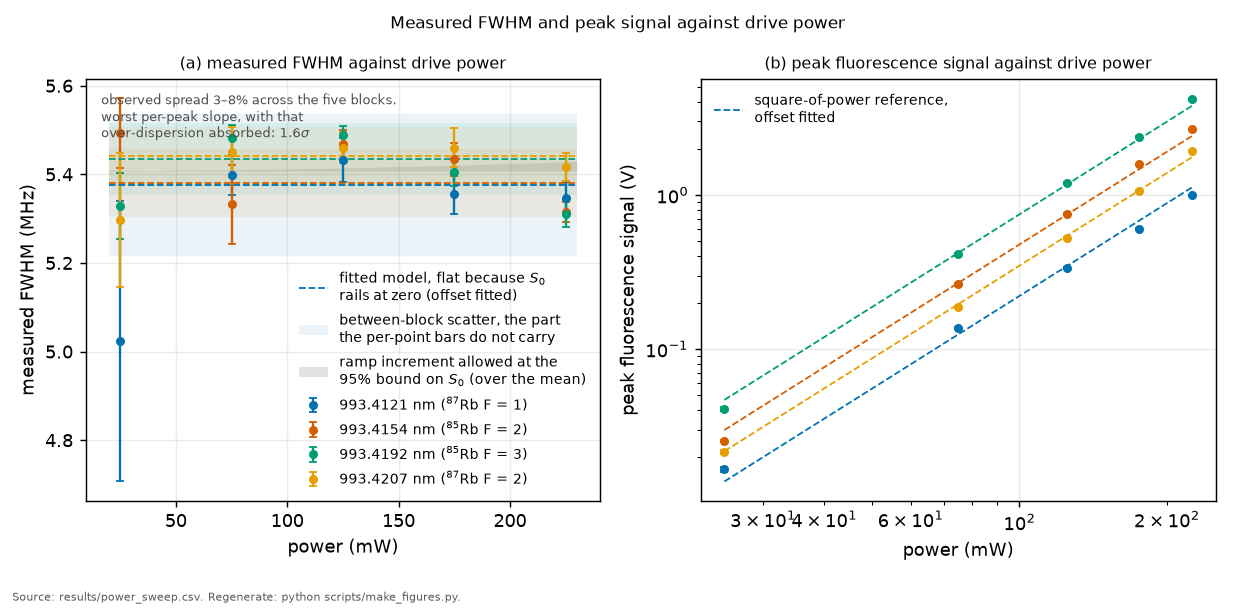
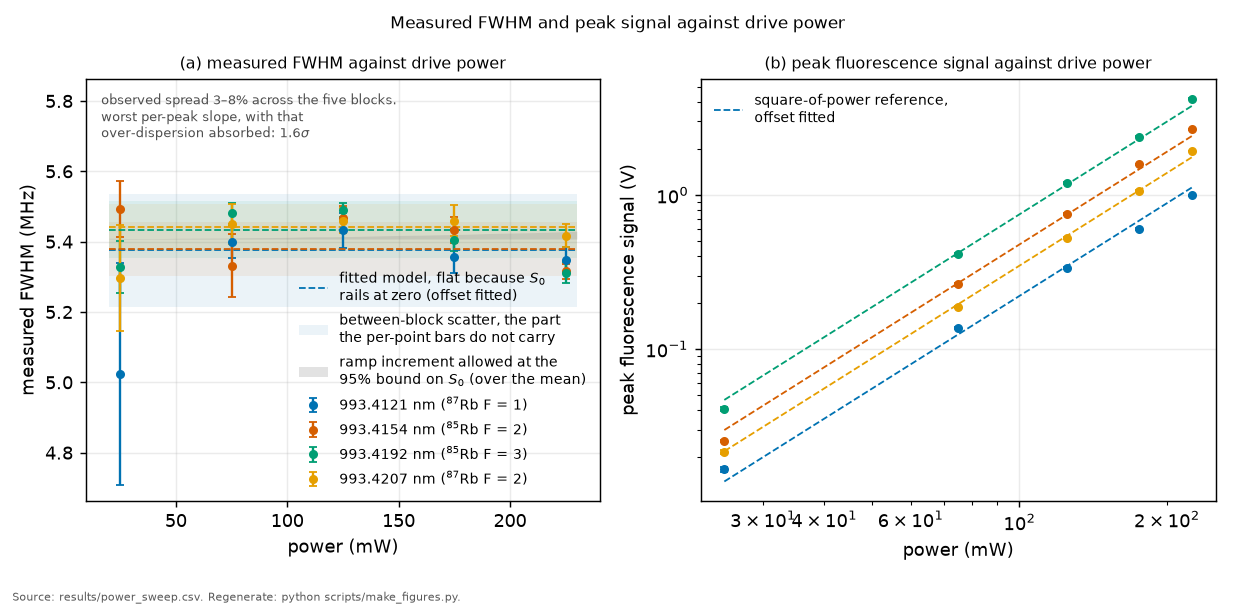
Make the figures say what they draw, starting with an uncertainty that was printed as zero (archive 858d0be1)
All ten files were byte-identical to the archive at baseline, so this is a
clean copy port. The figures themselves are shipped as rendered, including
fig19's pilot point, which this copy cannot redraw because the pilot
quarantine tree stays outside the repository.

diff --git a/scripts/make_figures.py b/scripts/make_figures.py
@@ -589,6 +589,16 @@ def fig_power_sweep():
             "worst per-peak slope, with that\n"
             f"over-dispersion absorbed: {_tworst:.1f}$\\sigma$",
             transform=a1.transAxes, fontsize=7.4, color="0.30", va="top")
+    # HEADROOM FOR THAT TEXT, measured rather than guessed. The block is
+    # anchored at axes-fraction 0.97 with no ylim set, so the axes autoscaled
+    # to the data and the 993.4154 nm error bar at 25 mW (5.4927 +/- 0.0785,
+    # so reaching 5.571) ran straight through the first line of it. Pixel
+    # inspection of the shipped PNG on 2026-08-15 found the whisker occupying
+    # the same pixels as all three lines of the annotation. Three text lines at
+    # 7.4 pt need roughly a fifth of this panel, so the top limit is lifted to
+    # clear them instead of moving the text somewhere the data may grow into.
+    _ylo, _yhi = a1.get_ylim()
+    a1.set_ylim(_ylo, _yhi + 0.26 * (_yhi - _ylo))
     a1.legend(fontsize=8, loc="lower right")
     a1.set_xlabel("power (mW)")
     # Estimator named on the axis: this panel's widths are the raw
@@ -3642,8 +3652,6 @@ def fig_magic_wavelengths():
     scalar-only). The vector term near the 6S-5P lines needs its own
     treatment before any trap design -- see rb5s6s/polarizability.py.
     """
-    import re
-
     from rb5s6s import polarizability as P
 
     rows = _rows("polarizability")
@@ -3655,8 +3663,29 @@ def fig_magic_wavelengths():
     crossings = []
     for r in magic_rows:
         lam = float(r["value"])
-        m = re.search(r"16-84% band ([\d.]+)\.\.([\d.]+) nm", r["unit"])
-        lo, hi = (float(m.group(1)), float(m.group(2))) if m else (lam, lam)
+        # THE BAND COMES FROM ITS OWN COLUMNS. Until 2026-08-15 this parsed it
+        # out of the free-text `unit` field with
+        #     re.search(r"16-84% band ([\d.]+)\.\.([\d.]+) nm", r["unit"])
+        # and fell back to (lam, lam) when that failed. The uncertainty wave had
+        # already moved the band into real err_lo16/err_hi84 columns and left no
+        # such text behind, so the regex matched NOTHING, the fallback fired for
+        # all three crossings, and the panel printed brackets of zero width:
+        # "[1203.89, 1203.89]" where the committed band is 1203.06 to 1204.73.
+        # A silent fallback turned a missing parse into a confident claim of
+        # perfect precision, which is the one thing this figure exists to deny.
+        # There is no fallback now: a magic row without its band is an error.
+        try:
+            lo, hi = float(r["err_lo16"]), float(r["err_hi84"])
+        except (KeyError, TypeError, ValueError) as exc:
+            raise SystemExit(
+                f"fig17: magic_5s6s row {r['key']!r} has no usable 16-84 band "
+                f"in err_lo16/err_hi84 ({exc}). Re-run "
+                f"scripts/run_polarizability.py rather than letting the figure "
+                f"draw a zero-width uncertainty.") from exc
+        if not (lo <= lam <= hi):
+            raise SystemExit(
+                f"fig17: magic_5s6s row {r['key']!r} has a band "
+                f"[{lo}, {hi}] that does not contain its own value {lam}.")
         crossings.append((lam, lo, hi))
     # The three bands differ by more than an order of magnitude in width, so
     # one status word cannot describe all three uncertainties. What each bracket
@@ -3743,6 +3772,14 @@ def fig_magic_wavelengths():
     # branch for the third.
     label_offsets = [(0, 40), (-108, -54), (62, 34)]
     for i, (lam, clo, chi) in enumerate(crossings):
+        # The band is DRAWN, not only printed. figures/README.md and
+        # FUTURE_TRANSITIONS_titsapph.md both told the reader to look for a
+        # shaded 16-84 per cent band and there was none on the canvas, because
+        # the only thing carrying the band was the bracket text, which was
+        # itself degenerate. The widths are genuinely unequal, 1.67 nm at the
+        # 1204 crossing against 0.13 nm at 1340, so the span also shows at a
+        # glance which crossing is actually pinned down.
+        ax_top.axvspan(clo, chi, color="#D55E00", alpha=0.16, lw=0, zorder=0)
         ax_top.axvline(lam, color="#D55E00", ls="--", lw=1.1)
         dx, dy = label_offsets[i] if i < len(label_offsets) else (0, 40)
         ax_top.annotate(

diff --git a/figures/README.md b/figures/README.md
@@ -54,19 +54,19 @@ support instead of a citing passage.
 | `fig2_power_sweep.png` | width and amplitude against drive power, the amplitude following the two-photon square law and the width carrying no significant slope | `make_figures.py` | [methods/07_what_we_found.md](../docs/methods/07_what_we_found.md) |
 | `fig3_transit_mc.png` | the Monte Carlo transit contribution against beam waist, with the waist at which it would account for the observed total | `make_figures.py` | [README.md](../README.md), [PLAN.md](../docs/PLAN.md) |
 | `fig4_amplitude_ratios.png` | within-isotope area ratios against the parameter-free degeneracy law, each prediction marked on its own dashed line. For a scalar two-photon operator the transition strengths scale as the upper-level statistical weight (2F+1), and the two measured ratios are drawn against those two predictions. The bars combine the scatter over repeats with the drift between measurement blocks, which is far larger than the difference the prediction would show, so this dataset cannot test the law | `make_figures.py` | [methods/07_what_we_found.md](../docs/methods/07_what_we_found.md) §5.7, which carries the reading of the figure |
-| `fig5_pooled_width.png` | the four components pooled into one width budget against density, with the shared laser width against temperature beside it | `make_figures.py` | cited nowhere. Supports the self-broadening bound, [RESULTS.md](../docs/RESULTS.md) C1, by showing the pooled trend the individual components are too noisy to carry |
-| `fig6_gamma_floor.png` | the fitted collisional width rising about 1.5-fold while the density rises 52-fold, which is why the coefficient is read as a floor | `make_figures.py` | [README.md](../README.md), [PLAN.md](../docs/PLAN.md) |
+| `fig5_pooled_width.png` | the four components pooled into one width budget against density, with the shared laser width against temperature beside it | `make_figures.py` | cited from [CLAIMS.md](../docs/CLAIMS.md). Supports the self-broadening bound, [RESULTS.md](../docs/RESULTS.md) C1, by showing the pooled trend the individual components are too noisy to carry |
+| `fig6_gamma_floor.png` | the fitted collisional width rising about 1.5-fold while the density rises 53-fold, which is why the coefficient is read as a floor | `make_figures.py` | [README.md](../README.md), [PLAN.md](../docs/PLAN.md) |
 | `fig7_identifiability_profile.png` | the profile-likelihood map of the collisional-width and laser-width degeneracy, the wide topology and a zoom against the local covariance ellipse. The two widths are not separately identifiable at this condition: the likelihood has a long valley along which they trade, so the split is set by the fit model rather than by the data. The condition is 993.4192 nm, cell at 130 °C, 225 mW, and the transit width and every remaining fitted parameter are re-minimised at each point of the grid. The white curves are the joint 68 and 95 percent contours, and beyond the grey dotted line the fitted transit width has reached zero and is held there | `make_figures.py` | [methods/06_the_statistics.md](../docs/methods/06_the_statistics.md). Neither citing document embeds it, so this row is its caption |
 | `fig8_ruler.png` | one EOM ruler trace with its constrained seven-tooth comb fit, and the free-centres nonlinearity map beside it | `make_figures.py` | [methods/05_the_frequency_ruler.md](../docs/methods/05_the_frequency_ruler.md) |
 | `fig9_polarizability_ladder.png` | the polarizability difference against wavelength for the 5S to 6S and 5S to 7S ladders, each drive marked and each crossing labelled | `run_polarizability_ladder.py` | [BIG_PICTURE.md](../docs/BIG_PICTURE.md) |
 | `fig10_degeneracy_vs_observable.png` | the twenty power-sweep conditions as error ellipses over contours of constant total width, and the same conditions' total width against power | `make_figures.py` | [BIG_PICTURE.md](../docs/BIG_PICTURE.md), [RESEARCH_DECISIONS.md](../docs/RESEARCH_DECISIONS.md) |
-| `fig11_laser_history.png` | the campaign's laser frequency within each run of unchanged scope-window setting, with a visible break at every setting change, the one long untouched stretch, and the within-epoch step distribution. No wavemeter log survives, so this is what the traces themselves can and cannot say. Panel (a) draws 296 traces in 60 segments of unchanged oscilloscope window setting, each segment referenced to itself, because across a change of that setting the offset is unknown and the record breaks. Panel (b) is the quietest well-sampled segment, 993.4154 nm, 10 traces over 3.4 min held to 0.17 MHz peak to peak. Panel (c) has half the steps below 0.21 MHz and a separate group running out to 15.5 MHz. The record does not say what produced those, though a re-lock of the reference cavity would look like this | `make_figures.py` | cited from [DATA.md](../docs/DATA.md), which now shows it. Supports the drift limitation in [DATA.md](../docs/DATA.md): an offset means nothing across a setting change, and within one setting the excursion is about 1 MHz. This row is the figure's caption |
+| `fig11_laser_history.png` | the campaign's laser frequency within each run of unchanged scope-window setting, with a visible break at every setting change, the quietest well-sampled segment, and the within-epoch step distribution. No wavemeter log survives, so this is what the traces themselves can and cannot say. Panel (a) draws 296 traces in 60 segments of unchanged oscilloscope window setting, each segment referenced to itself, because across a change of that setting the offset is unknown and the record breaks. Panel (b) is the quietest well-sampled segment, 993.4154 nm, 10 traces over 3.4 min held to 0.17 MHz peak to peak. Panel (c) has half the steps below 0.21 MHz and a separate group running out to 15.5 MHz. The record does not say what produced those, though a re-lock of the reference cavity would look like this | `make_figures.py` | cited from [DATA.md](../docs/DATA.md), which now shows it. Supports the drift limitation in [DATA.md](../docs/DATA.md): an offset means nothing across a setting change, and within one setting the excursion is about 1 MHz. This row is the figure's caption |
 | `fig12_ramp_construction.png` | how the intensity profile of a focused Gaussian beam becomes a triangular light-shift distribution, in four steps, with no data and no fitted parameters | `make_figures.py` | [THEORY_NOTE.md](../docs/THEORY_NOTE.md), [PLAN.md](../docs/PLAN.md) |
 | `fig13_level_scheme.png` | which levels are driven and which arm is detected, in the term-diagram idiom, with the digitised cavity scan in side panels | `make_figures.py` | [methods/01_the_measurement.md](../docs/methods/01_the_measurement.md), [APPARATUS.md](../docs/APPARATUS.md) |
 | `fig14_wavemeter_reconstruction.png` | the 2025-06-11 wavemeter record, the sawtooth model fitted to it, and the resulting floor on unmodelled laser motion | `make_figures.py` | [APPARATUS.md](../docs/APPARATUS.md), [PREREGISTRATION_RESULTS.md](../docs/PREREGISTRATION_RESULTS.md) |
 | `fig15_drift_story.png` | the drift problem photographed, the campaign record reconstructed from its own traces, and what each drift regime licenses | `make_figures.py` | [README.md](../README.md), [PLAN.md](../docs/PLAN.md) |
 | `fig16_fit_gallery.png` | the brightest campaign trace of each component against the committed shared model, with residuals, four panels in one frame | `make_figures.py` | [README.md](../README.md) |
-| `fig17_magic_wavelengths.png` | the 5S and 6S polarizabilities and their difference, with the three zero crossings and each crossing's Monte Carlo band | `make_figures.py` | [README.md](../README.md) |
+| `fig17_magic_wavelengths.png` | the 5S and 6S polarizabilities and their difference, with the three zero crossings and each crossing's 16 to 84 per cent Monte Carlo band, printed as a bracket under the crossing and shaded on the axis. The three bands differ by more than a factor of ten in width, 1.67 nm at 1204 nm against 0.13 nm at 1340, so at this scale the shading is narrower than the crossing line and the bracket is the readable form. Until 2026-08-15 the brackets were drawn zero-width, because the producer parsed the band out of a free-text field the uncertainty wave had already emptied | `make_figures.py` | [README.md](../README.md) |
 | `fig18_single_4121.png` | one full-page panel for the 993.4121 nm component: the same trace and shared model as fig16, with a parameter box naming every number as shared or per-trace. The model is a Lorentzian core, natural plus collisional, convolved with a Gaussian envelope set by the laser line width and the transit time, with the detector's saturation included. The shared block holds at the widths common to the whole campaign, and only this trace's amplitude, centre and background are refit. Reading the box: a shared laser width is shared by every trace taken at this temperature in one session and the shared fit publishes no separate uncertainty for it, the same goes for the shared collisional width, the transit width is held fixed at the value the assumed geometry implies because the beam waist has not been measured, the fitted centre is on this trace's own scan axis whose origin is arbitrary, and where the reduced chi-squared falls below one the per-point noise assumed in the fit is conservative so the uncertainties beneath it are upper bounds | `make_figures.py` | deliberately not embedded. It is a sibling of `fig18_single_4192.png`, which [methods/04_the_composite_model.md](../docs/methods/04_the_composite_model.md) shows for one peak. Showing all four in the chapter would repeat the same statement four times, and a reader checking that the shape holds on the other peaks wants the files rather than the prose. Supports the composite lineshape model of [methods/04_the_composite_model.md](../docs/methods/04_the_composite_model.md), whose shared and per-trace split the parameter box states. This row is the caption for all four panels |
 | `fig18_single_4154.png` | the same panel for the 993.4154 nm component | `make_figures.py` | deliberately not embedded. It is a sibling of `fig18_single_4192.png`, which [methods/04_the_composite_model.md](../docs/methods/04_the_composite_model.md) shows for one peak. Showing all four in the chapter would repeat the same statement four times, and a reader checking that the shape holds on the other peaks wants the files rather than the prose. Supports [methods/04_the_composite_model.md](../docs/methods/04_the_composite_model.md), as above |
 | `fig18_single_4192.png` | the same panel for the 993.4192 nm component | `make_figures.py` | cited from [methods/04_the_composite_model.md](../docs/methods/04_the_composite_model.md), which now shows it. Supports [methods/04_the_composite_model.md](../docs/methods/04_the_composite_model.md), as above |
@@ -80,8 +80,8 @@ support instead of a citing passage.
 | `fig27_radiation_environment.png` | the three radiation fields a hot cell puts on these atoms, on one pair of axes. Panel (a) is the thermal occupation number against wavelength at 130 °C, with every line of the cascade marked on it and the band where the thermal photons actually are shaded: the detected 795 nm line sits twenty decades below that band and the infrared cascade legs twelve, which is the whole reason blackbody light does nothing here. Panel (b) is the consequence, every channel scored against the two-photon drive that makes the signal, over nineteen decades of rate. The one thermal channel that clears the floor is 6S to 6P at 2.7 µm, still two parts per million of the natural decay, and the only error bar in the panel is the trapped-infrared row's, because its standoff is geometric where everything else is atomic | `make_figures.py` | [docs/methods/04_the_composite_model.md](../docs/methods/04_the_composite_model.md) |
 | `fig28_cascade_resolved.png` | why the pumping branching is not the degeneracy weight, and why the correction is nevertheless two numbers. Panel (a) resolves one line's cascade by intermediate F. The level that is fed with 0.17 of that leg and loses none of it, because a J = 1 photon cannot change F by two, so it returns the atom to the level it came from. Panel (b) is the point. Small markers are the individual intermediate levels, which scatter from 0 to 0.67, and large markers are the leg sums, which sit on exactly 8/9 and 4/9 for all four lines and both isotopes. That sum rule is derived as 2(1-p) with p the purely electronic non-flip probability, and checked again as an exact-rational density matrix with every coherence kept | `make_figures.py` | [docs/THEORY_NOTE.md](../docs/THEORY_NOTE.md) |
 | `fig29_isotope_transit.png` | why the two isotopes do not share a transit width, and why the fits share one anyway. Panel (a) is the kernel against temperature for both masses, 12 kHz apart at 140 °C on a width quoted to 0.01 MHz. Panel (b) is the reason that is stated rather than corrected: against density, which is the lever the collisional coefficient is read from, the gap is almost all constant offset, and the free per-line core width absorbs a constant. The dashed line is what one standard error on the measured difference between the isotopes would look like on the same axes, and it is a factor of 240 steeper | `make_figures.py` | [docs/methods/02_the_lineshape.md](../docs/methods/02_the_lineshape.md) |
-| `fig21_joint_fit_five.png` | five repeats of one condition under a single shared line shape, the shared widths in the header, and each row printing its own fitted centre, peak height and reduced chi-squared. Four parameters are refitted for each repeat, because the frequency lock drifts between them: the line centre, the peak height, the background level and the detector saturation. The points are the measured signal and the line is the shared model. The point uncertainties come from the baseline scatter, which is conservative in the line core, so the reduced chi-squared sits below one. Each residual strip divides by that point's own uncertainty | `make_figures.py` | cited from [notes/full_archive_fit_prereg.md](../docs/notes/full_archive_fit_prereg.md), which now shows it. Supports the shared-shape archive fit preregistered in [notes/full_archive_fit_prereg.md](../docs/notes/full_archive_fit_prereg.md). This row is its caption |
-| `fig22_joint_fit_twenty.png` | the same shared line shape across all twenty campaign power-sweep conditions, brightest repeat each, nothing retuned per panel. The model is a Lorentzian core, natural 3.49 MHz plus collisions, convolved with the laser width and the transit kernel, with detector saturation, and the shared collisional, laser and transit widths are in `results/global_archive_fit.csv`, which the figure's own footer cites. Refitted for each trace, because the lock and the detector drift: line centre, peak height, background level, detector saturation. The line shape itself is identical in all twenty panels. Every panel is scaled to its own trace, so peak heights cannot be compared across the grid and the numbers on the left apply to the first column only. The residual strips are in units of that trace's own point-by-point uncertainty, estimated from the baseline scatter, which overestimates the noise where the signal is strong, so the reduced chi-squared falls below one and the widths quoted above are correspondingly conservative. The signal is weakest in the 25 mW column, the lowest drive power of the sweep | `make_figures.py` | cited from [notes/full_archive_fit_prereg.md](../docs/notes/full_archive_fit_prereg.md), which now shows it. Supports the same fit as fig21, [notes/full_archive_fit_prereg.md](../docs/notes/full_archive_fit_prereg.md). This row is its caption |
+| `fig21_joint_fit_five.png` | five repeats of one condition under a single shared line shape, the shared widths in the header, and each row printing its own fitted centre, peak height and reduced chi-squared. Five parameters are refitted for each repeat, because the frequency lock drifts between them: the line centre, the peak height, the background level, the background slope and the detector saturation. The slope was missing from this list while the producer had always fitted it (`_fit_rec_nuisances` solves for A, cc, b0, b1, logVs). The points are the measured signal and the line is the shared model. The point uncertainties come from the baseline scatter, which is conservative in the line core, so the reduced chi-squared sits below one. Each residual strip divides by that point's own uncertainty | `make_figures.py` | cited from [notes/full_archive_fit_prereg.md](../docs/notes/full_archive_fit_prereg.md), which now shows it. Supports the shared-shape archive fit preregistered in [notes/full_archive_fit_prereg.md](../docs/notes/full_archive_fit_prereg.md). This row is its caption |
+| `fig22_joint_fit_twenty.png` | the same shared line shape across all twenty campaign power-sweep conditions, brightest repeat each, nothing retuned per panel. The model is a Lorentzian core, natural 3.49 MHz plus collisions, convolved with the laser width and the transit kernel, with detector saturation, and the shared collisional, laser and transit widths are in `results/global_archive_fit.csv`, which the figure's own footer cites. Refitted for each trace, because the lock and the detector drift: line centre, peak height, background level, background slope, detector saturation. Five, not four, from the same `_fit_rec_nuisances` as fig21. The line shape itself is identical in all twenty panels. Every panel is scaled to its own trace, so peak heights cannot be compared across the grid and the numbers on the left apply to the first column only. The residual strips are in units of that trace's own point-by-point uncertainty, estimated from the baseline scatter, which overestimates the noise where the signal is strong, so the reduced chi-squared falls below one and the widths quoted above are correspondingly conservative. The signal is weakest in the 25 mW column, the lowest drive power of the sweep | `make_figures.py` | cited from [notes/full_archive_fit_prereg.md](../docs/notes/full_archive_fit_prereg.md), which now shows it. Supports the same fit as fig21, [notes/full_archive_fit_prereg.md](../docs/notes/full_archive_fit_prereg.md). This row is its caption |
 
 The colour of a component is fixed across every panel here, so a colour means
 the same hyperfine line wherever it appears.

diff --git a/docs/BIG_PICTURE.md b/docs/BIG_PICTURE.md
@@ -227,11 +227,13 @@ thing to have selected on.
 
 *Where the magic wavelengths come from: the 5S and 6S dynamic polarizabilities
 cross three times between 1200 and 1340 nm, and each crossing is a wavelength
-where a trap would hold both states without pulling the 993 nm line. The shaded
-band is the 16 to 84 per cent Monte-Carlo spread over the input matrix
-elements, so it is the uncertainty of the calculation and not of a measurement,
-and it is why the crossings below are quoted with theirs. Nothing here has been
-checked against a trap.*
+where a trap would hold both states without pulling the 993 nm line. This
+figure draws the curves and the crossing positions only. The 16 to 84 per cent
+Monte-Carlo spread over the input matrix elements is drawn on
+[fig17](../figures/fig17_magic_wavelengths.png) and committed in
+`results/polarizability.csv`, and it is the uncertainty of the calculation
+rather than of a measurement, which is why the crossings below are quoted with
+theirs. Nothing here has been checked against a trap.*
 
 Where they landed was not designed for. **Two of the three sit inside the
 telecom O-band** (1260–1360 nm, ITU), 1287.9 ± 0.2 and
@@ -296,7 +298,7 @@ the mean leaves the spread untouched. At the twenty conditions drawn, all at
 130 °C, the total width is measured but its decomposition into components is not.
 In the left panel the split between the two components slides freely along a grey
 line of constant total width in MHz, the two are anticorrelated with a median
-correlation coefficient of −0.90, and several of the one-sigma ellipses reach
+correlation coefficient of −0.90, and one of the twenty one-sigma ellipses reaches
 negative Gaussian width. In the right panel the quantity actually measured, the
 fitted total, is known to 1.0 per cent within a condition, and no trend with
 laser power survives the scatter between measurement blocks, which is several

diff --git a/docs/PLAN.md b/docs/PLAN.md
@@ -646,10 +646,18 @@ and the transit difference must agree before any Stark coefficient is quoted in
 physical units. The ramp-law form tests never need the absolute axis. Only Δα
 does.
 
-![transit width vs waist and collection geometry](../figures/fig3_transit_mc.png)
+![transit width against beam waist, in the thin single-waist limit](../figures/fig3_transit_mc.png)
 
-*The physics behind the anchor: the Monte-Carlo transit width against waist
-and collection geometry. The S−L width difference reads ~2.7 MHz off the
+*The physics behind the anchor: the Monte-Carlo transit width against waist,
+in the THIN single-waist limit only. The producer filters
+`results/transit_mc.csv` to its `thin` rows, so the collection-geometry
+dependence that file also carries is not on this canvas, and it runs the
+direction that would soften the exclusion shaded here: at the one waist where
+that file computes it, 50 µm, the added transit falls from 1.254 MHz in the
+thin limit to 1.134 MHz over a 6 mm collection column. The file computes no
+collection variants at the small waists this figure excludes, so how far the
+boundary would move there is not settled by it. The S−L width difference reads
+~2.7 MHz off the
 steep part of this curve, which is what makes it an intensity calibration
 independent of the knife-edge stage. The abscissa is not a measured quantity:
 the beam waist has not been measured and the knife-edge scan is pending, which

diff --git a/docs/methods/05_the_frequency_ruler.md b/docs/methods/05_the_frequency_ruler.md
@@ -113,8 +113,13 @@ equally:
 standardized residual strip (left) and the pooled sweep-linearity map
 (right): the local rate never departs from the block rate by more than 0.3%
 in any well-sampled window, and that bound is set by the well-sampled windows
-alone. The open markers at the scan edges carry an uncertainty larger than the
-bound itself, so they do not constrain it, and what the right panel bounds is
+alone. The open markers at the scan edges are the thinly-sampled windows, four
+to eleven traces each against nineteen or more elsewhere, and they are excluded
+on that ground rather than on their error bars: of the five, two carry an
+uncertainty above the 0.3% bound (0.40% and 0.68%) and three sit below it
+(0.18%, 0.18% and 0.29%), so the sentence this caption used to make, that they
+all carry an uncertainty larger than the bound, was true of two of them. What
+the right panel bounds is
 sweep non-linearity and any tooth-dependent pull together. Six of the seven teeth
 stand above this trace's fit residual, and the seventh does not because the
 third-order pair carries about 2% of the first-order power at this modulation

diff --git a/docs/FUTURE_TRANSITIONS_titsapph.md b/docs/FUTURE_TRANSITIONS_titsapph.md
@@ -30,9 +30,12 @@ the only way to find out they do not work.
 rung of the same ladder, reached by tuning one laser, and this is the quantity
 that decides whether a rung is worth reaching: the computed differential
 polarizability, whose zero crossings are the wavelengths where a trap would
-hold both states equally. The shaded band is the 16 to 84 per cent
-Monte-Carlo spread over the input matrix elements, so it is the uncertainty of
-a calculation and not of a measurement. The same figure appears again in
+hold both states equally. The bracket printed under each crossing is its 16 to
+84 per cent Monte-Carlo spread over the input matrix elements, so it is the
+uncertainty of a calculation and not of a measurement. The spread is also
+shaded on the axis, but at this scale it is narrower than the line marking the
+crossing, so the bracket is what to read: 1.67 nm at the 1204 nm crossing
+against 0.13 nm at 1340. The same figure appears again in
 section 4 with the published measurement this document reads against it.*
 
 ## 1. The one-sentence picture

diff --git a/docs/methods/04_the_composite_model.md b/docs/methods/04_the_composite_model.md
@@ -226,11 +226,13 @@ and that is the fixed lock's job.
 
 ![one peak fitted with the composite model, with its residual strip](../../figures/fig18_single_4192.png)
 
-*The model of this chapter against one peak, at every condition it was measured
-at. The shape is the same object in every panel and only the per-trace
-nuisances move. The residual strips are the useful part: a model that was
-missing a kernel would leave structure there, not noise, and the same structure
-in every panel.*
+*The model of this chapter against one peak at ONE condition, 130 degrees and
+225 mW, with its residual strip and the parameters it was given against the
+ones it fitted here. The shared shape comes from the joint fit over every
+campaign trace and only the per-trace nuisances are refitted for this panel.
+The residual strip is the useful part: a model missing a kernel would leave
+structure there rather than noise. The four peaks each have their own figure of
+this kind, fig18_single_4121 through fig18_single_4207.*
 
 ---
 
